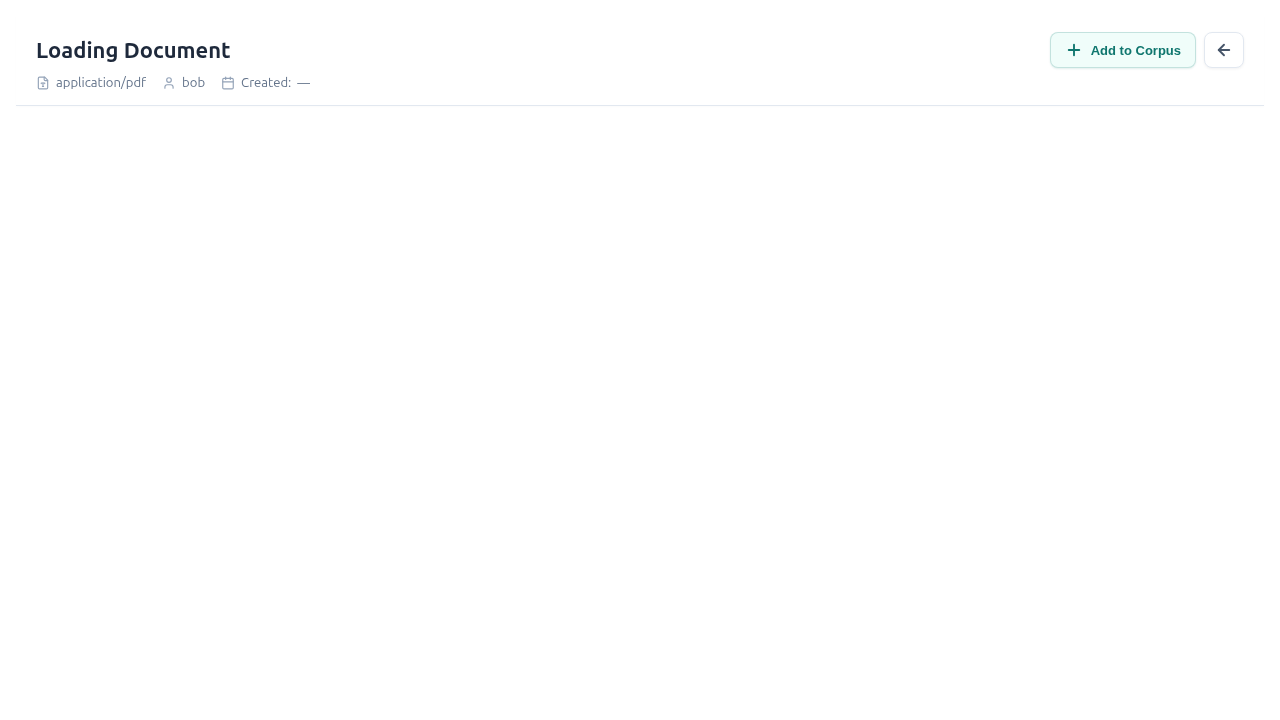
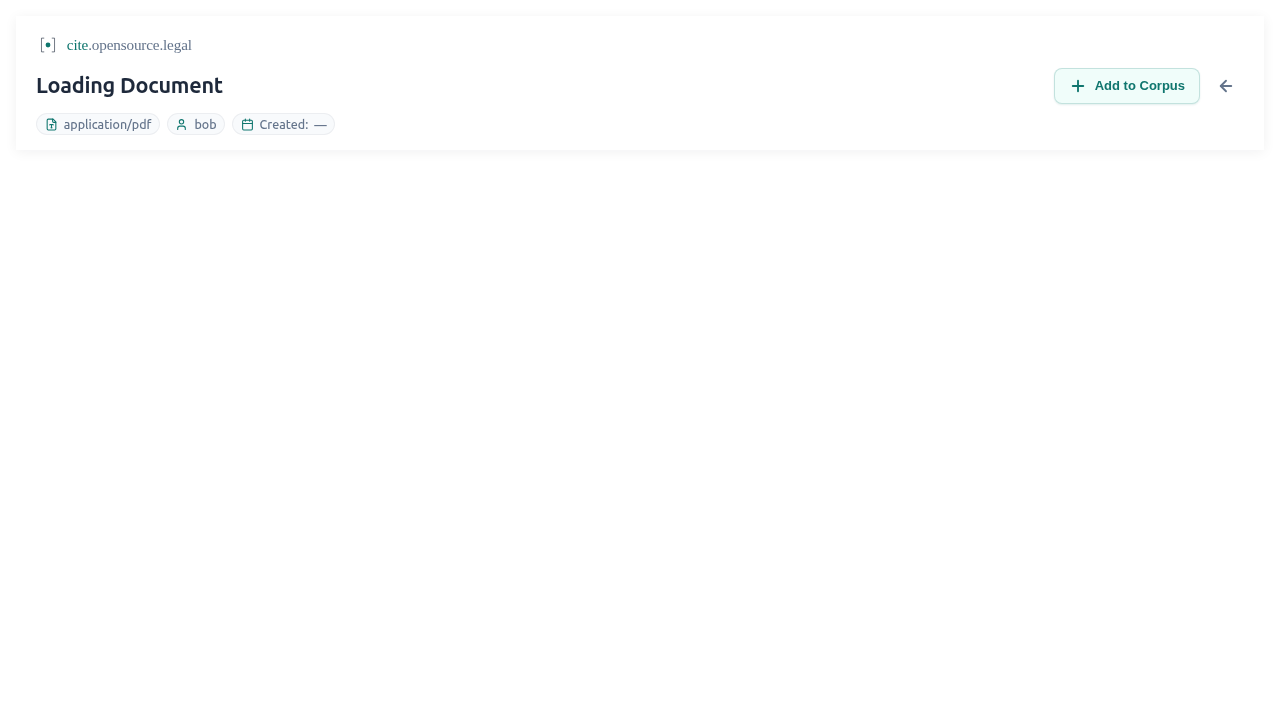
Address review: idiomatic brand styled-components, brand test, lint fix
- Replace .brand-domain / .brand-domain__accent class selectors in BrandLink
  with dedicated BrandDomain / BrandAccent styled components (type-safe,
  co-located, consistent with the rest of HeaderAndLayout).
- Drop the duplicate JSX rationale comment in HeaderBar (the HeaderBrandRow
  JSDoc is the canonical explanation).
- Document the margin-left nudge on BrandLink.
- HeaderBar.ct.tsx: assert the brand row renders; raise the mobile-header
  compactness bound 112 -> 140 to account for the intentional brand row.
- Prettier reformat (fixes the failing Lint check).

Changed region(s): [[0.0312, 0.0611, 0.2188, 0.1833], [0.8125, 0.0611, 0.9375, 0.1528], [0.1875, 0.1528, 0.25, 0.1833]]

diff --git a/frontend/src/components/knowledge_base/document/document_kb/HeaderBar.tsx b/frontend/src/components/knowledge_base/document/document_kb/HeaderBar.tsx
@@ -3,6 +3,8 @@ import { ArrowLeft, Calendar, FileType, Plus, User } from "lucide-react";
 import { DocumentVersionSelector } from "../../../documents/DocumentVersionSelector";
 import { CiteMark } from "../../../brand";
 import {
+  BrandAccent,
+  BrandDomain,
   BrandLink,
   HeaderBrandRow,
   HeaderContainer,
@@ -55,11 +57,6 @@ export const HeaderBar: React.FC<HeaderBarProps> = ({
 
   return (
     <HeaderContainer data-testid="document-header">
-      {/*
-       * The knowledge-base modal covers the global NavMenu, so we keep the
-       * cite / opensource.legal branding visible here while a document is open.
-       * The mark + wordmark link home, mirroring the navbar logo behaviour.
-       */}
       <HeaderBrandRow>
         <BrandLink
           to="/"
@@ -67,9 +64,9 @@ export const HeaderBar: React.FC<HeaderBarProps> = ({
           data-testid="document-header-brand"
         >
           <CiteMark size={22} ariaLabel="" />
-          <span className="brand-domain">
-            <span className="brand-domain__accent">cite</span>.opensource.legal
-          </span>
+          <BrandDomain>
+            <BrandAccent>cite</BrandAccent>.opensource.legal
+          </BrandDomain>
         </BrandLink>
       </HeaderBrandRow>
 
@@ -98,7 +95,7 @@ export const HeaderBar: React.FC<HeaderBarProps> = ({
           <HeaderButton
             onClick={(e) => {
               routingLogger.debug(
-                `🖱  [DocumentKnowledgeBase] ════════ BACK BUTTON CLICKED ════════`,
+                `🖱  [DocumentKnowledgeBase] ════════ BACK BUTTON CLICKED ════════`
               );
               routingLogger.debug(
                 "[DocumentKnowledgeBase] Button click event:",
@@ -108,7 +105,7 @@ export const HeaderBar: React.FC<HeaderBarProps> = ({
                   currentTarget: e.currentTarget,
                   target: e.target,
                   currentUrl: window.location.pathname + window.location.search,
-                },
+                }
               );
               onClose();
             }}

diff --git a/frontend/src/components/knowledge_base/document/styled/HeaderAndLayout.tsx b/frontend/src/components/knowledge_base/document/styled/HeaderAndLayout.tsx
@@ -53,14 +53,14 @@ export const BrandLink = styled(Link)`
   display: inline-flex;
   align-items: center;
   gap: 0.5rem;
+  /* Pull the mark flush with the container's left padding so it optically
+     aligns with the title row below it. */
   margin-left: -0.3rem;
   padding: 0.15rem 0.35rem;
   border-radius: 8px;
   text-decoration: none;
   color: ${OS_LEGAL_COLORS.textSecondary};
-  transition:
-    color 0.18s ease,
-    background 0.18s ease;
+  transition: color 0.18s ease, background 0.18s ease;
 
   &:hover {
     color: ${OS_LEGAL_COLORS.textPrimary};
@@ -70,24 +70,22 @@ export const BrandLink = styled(Link)`
   svg {
     flex-shrink: 0;
   }
+`;
 
-  .brand-domain {
-    font-family: ${OS_LEGAL_TYPOGRAPHY.fontFamilySerif};
-    font-size: 0.95rem;
-    font-weight: 500;
-    letter-spacing: -0.01em;
-    white-space: nowrap;
-  }
-
-  .brand-domain .brand-domain__accent {
-    color: ${OS_LEGAL_COLORS.accent};
-  }
+export const BrandDomain = styled.span`
+  font-family: ${OS_LEGAL_TYPOGRAPHY.fontFamilySerif};
+  font-size: 0.95rem;
+  font-weight: 500;
+  letter-spacing: -0.01em;
+  white-space: nowrap;
 
   @media (max-width: 480px) {
-    .brand-domain {
-      font-size: 0.85rem;
-    }
+    font-size: 0.85rem;
   }
+`;
+
+export const BrandAccent = styled.span`
+  color: ${OS_LEGAL_COLORS.accent};
 `;
 
 export const HeaderPrimaryRow = styled.div`
@@ -160,10 +158,7 @@ export const MetadataRow = styled.div`
     white-space: nowrap;
     overflow: hidden;
     text-overflow: ellipsis;
-    transition:
-      background 0.18s ease,
-      color 0.18s ease,
-      box-shadow 0.18s ease;
+    transition: background 0.18s ease, color 0.18s ease, box-shadow 0.18s ease;
 
     &:hover {
       background: ${OS_LEGAL_COLORS.surfaceLight};

diff --git a/frontend/tests/HeaderBar.ct.tsx b/frontend/tests/HeaderBar.ct.tsx
@@ -20,6 +20,12 @@ test.describe("HeaderBar", () => {
       />
     );
 
+    // The cite / opensource.legal brand row is re-surfaced here because the
+    // knowledge-base modal hides the global NavMenu (see HeaderBrandRow).
+    const brand = page.getByTestId("document-header-brand");
+    await expect(brand).toBeVisible();
+    await expect(brand).toContainText("cite.opensource.legal");
+
     await expect(page.getByText("Quarterly Earnings Report")).toBeVisible();
     await expect(page.getByText("application/pdf")).toBeVisible();
     // Slug-only privacy: cross-user surfaces render the slug, never email.
@@ -114,7 +120,10 @@ test.describe("HeaderBar", () => {
     expect(addBox).not.toBeNull();
     expect(backBox).not.toBeNull();
 
-    expect(headerBox!.height).toBeLessThanOrEqual(112);
+    // Compactness bound. Raised from 112 → 140 when the cite / opensource.legal
+    // brand row was added above the title row (it contributes ~12px at this
+    // breakpoint). The bound still guards against the header growing unbounded.
+    expect(headerBox!.height).toBeLessThanOrEqual(140);
     expect(headerBox!.x + headerBox!.width).toBeLessThanOrEqual(402);
     expect(addBox!.x + addBox!.width).toBeLessThanOrEqual(
       headerBox!.x + headerBox!.width
